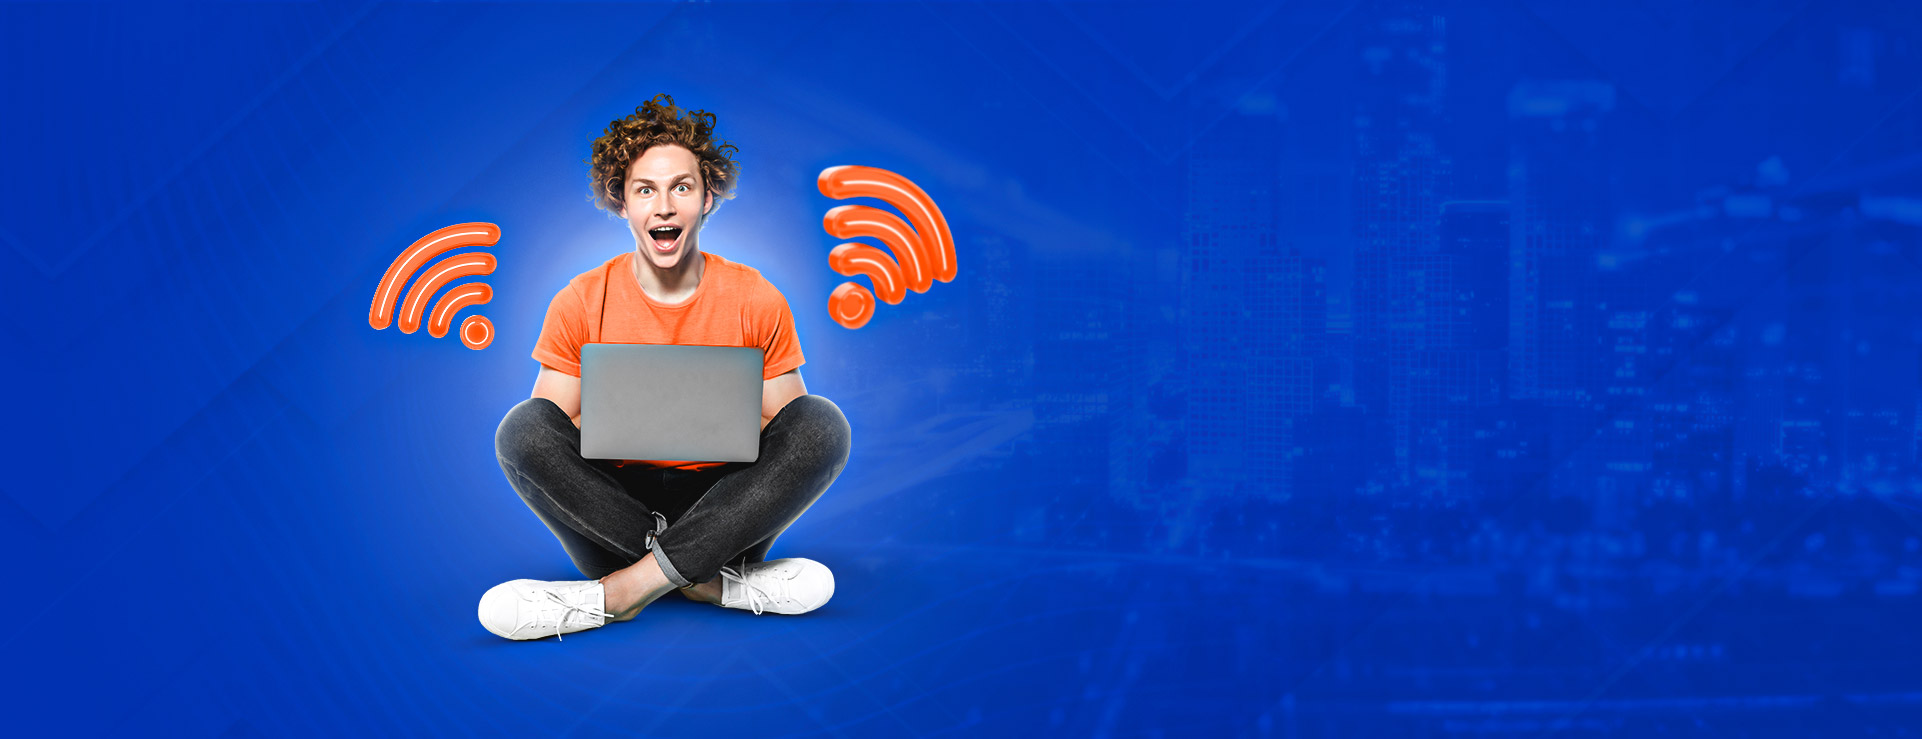
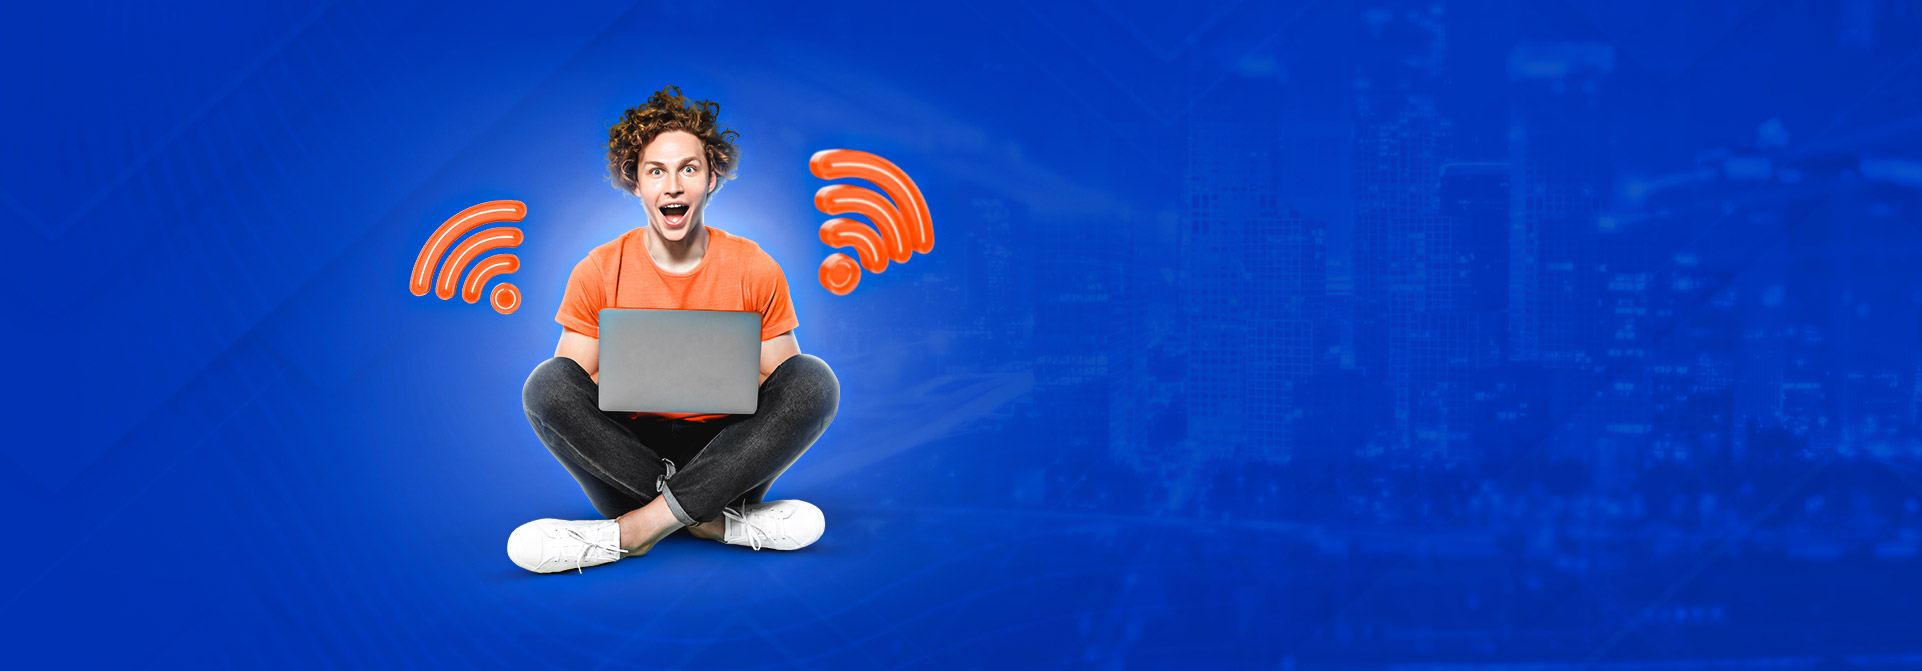
correções de imagens

diff --git a/app/quemSomos/page.tsx b/app/quemSomos/page.tsx
@@ -1,3 +1,4 @@
+import Image from 'next/image'
 import styles from '../quemSomos/quemSomos.module.css'
 
 export default function QuemSomos() {
@@ -16,8 +17,13 @@ export default function QuemSomos() {
                         <p>Na Connect, valorizamos a transparência, a confiabilidade e a satisfação do cliente acima de tudo. Estamos aqui para simplificar sua experiência de internet e garantir que você tenha tudo o que precisa para se manter conectado e produtivo.</p>
                         <p>Seja você um usuário doméstico, uma pequena empresa ou uma corporação de grande porte, a Connect tem a solução perfeita para suas necessidades de conectividade. Junte-se a nós e descubra o poder da verdadeira internet de alta velocidade.</p>
                     </div>
-                    <div>
-                        <img src="/assets/Moldem.png" alt="" />
+                    <div className={styles.imagem}>
+                        <Image
+                        src={'/assets/Moldem.png'}
+                        alt='Model-connect'
+                        width={625}
+                        height={519}
+                        />
                     </div>
                 </section>
             </div>

diff --git a/components/Header/Header.tsx b/components/Header/Header.tsx
@@ -7,6 +7,7 @@ import { RxDropdownMenu } from "react-icons/rx";
 import Menu from '../Menu/Menu';
 import { useState } from 'react';
 import Link from 'next/link';
+import Image from 'next/image';
 
 export default function Header() {
     const [toggle, setToggle] = useState(false)
@@ -18,7 +19,15 @@ export default function Header() {
         <>
             <div className={styles.myAppContainer1}>
                 <header className='space-canvas'>
-                    <div><Link href='/'><img src='/assets/Logo-azul.png' alt="Connect" className={styles.logo}/></Link></div>
+                    <div>
+                        <Image
+                        src={"/assets/Logo-azul.png"}
+                        alt='connect'
+                        width={232}
+                        height={84}
+                        className={styles.logo}
+                        />
+                    </div>
                     <div className={styles.menu}>
                         <Menu/>
                     </div>

diff --git a/components/Footer/Footer.tsx b/components/Footer/Footer.tsx
@@ -2,6 +2,7 @@ import styles from '../Footer/Footer.module.css'
 import { FaWhatsapp, FaEnvelope, FaFacebook, FaYoutube } from "react-icons/fa";
 import { FaInstagram } from "react-icons/fa6";
 import Link from 'next/link';
+import Image from 'next/image';
 
 export default function Footer() {
     return (
@@ -9,7 +10,12 @@ export default function Footer() {
             <div className={styles.myAppContainer6}>
                 <footer className={styles.footer}>
                     <div>
-                        <Link href={'/'}><img src="/assets/logo.png" alt="Connect" /></Link>
+                        <Link href={'/'}><Image
+                        src={'/assets/Logo.png'}
+                        alt=''
+                        width={232}
+                        height={84}
+                        /></Link>
                     </div>
                     <div>
                         <h2>Contatos</h2>

diff --git a/app/quemSomos/quemSomos.module.css b/app/quemSomos/quemSomos.module.css
@@ -21,8 +21,13 @@
 .texto p {
     font-size: 14px;
 }
+.imagem{
+    display: flex;
+   padding-left: 30px;
+}
 .myAppContainer img {
-    width: 400px;
+    width: 80%;
+    height: 80%;
 }
 
 @media screen and (max-width: 600px) {

diff --git a/components/Header/Header.module.css b/components/Header/Header.module.css
@@ -4,7 +4,8 @@
     display: flex;
 }
 .logo{
-    width: 150px;
+    width: 60%;
+    height: 60%;
     cursor: pointer;
 }
 .menu ul {
